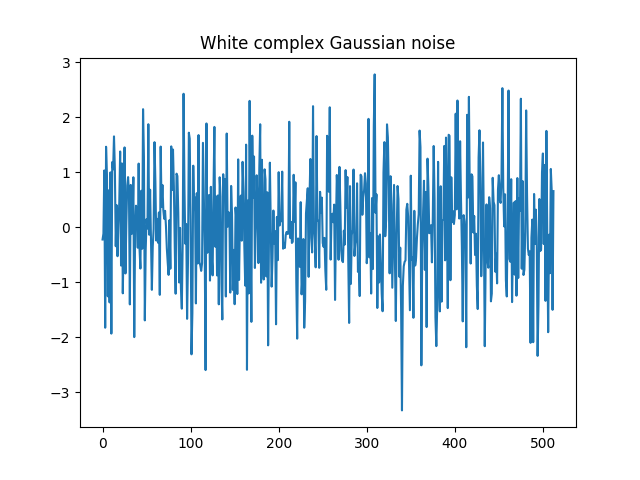
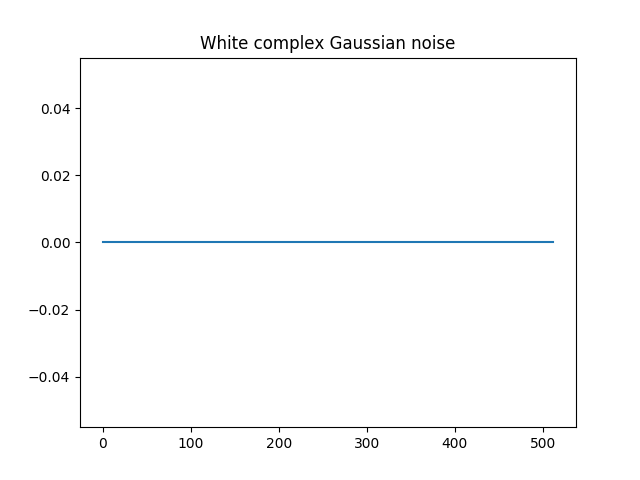
White noise is now genereated with variance calcualted from the specified SNR

diff --git a/main.py b/main.py
@@ -28,8 +28,8 @@ CRLB_THETA = 12*(SIGMA_SQUARED)*((n_0**2)*N + 2*n_0*P + Q) / ((A**2)*(N**2)*((N*
 # ---------- Signals ---------- #
 
 # White complex Gaussian noise
-wReal = np.random.normal(0, 1, size=N)
-wImag = np.random.normal(0, 1, size=N)*1j
+wReal = np.random.normal(0, SIGMA_SQUARED, size=N)
+wImag = np.random.normal(0, SIGMA_SQUARED, size=N)*1j
 
 w = []
 for i in range(N):
